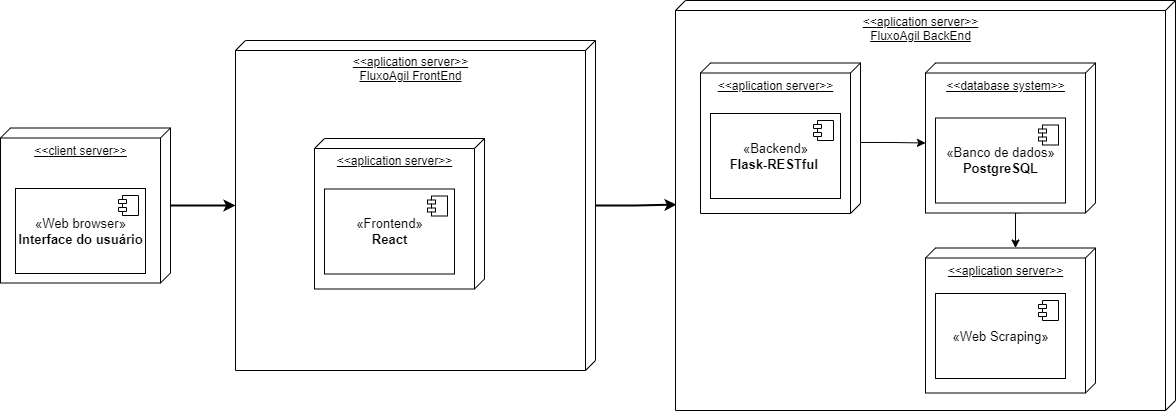
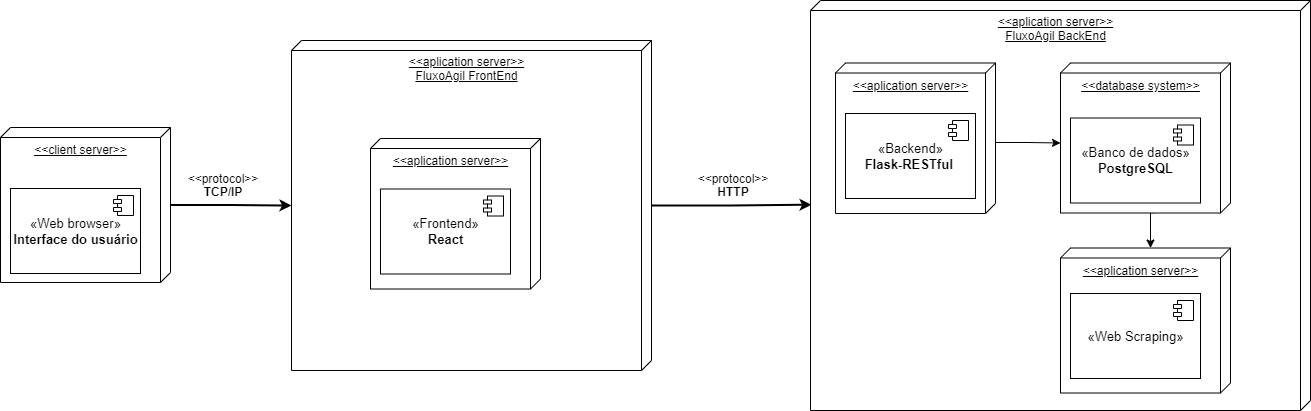
99 docs/melhorias (#132)
* docs: melhorias e modificações (#99)

* docs: adicionando ao historico de versoes (#99)

diff --git a/docs/Base/ProcessosMetodologiasAbordagens/escolhas_metodologicas.md b/docs/Base/ProcessosMetodologiasAbordagens/escolhas_metodologicas.md
@@ -1,9 +1,10 @@
 # Escolhas Metodológicas
 
 ## Histórico de versões
-| Data     | Versão | Descrição            | Autor(a)                                     | Revisor(a)                             |
-| -------- | ------ | -------------------- | -------------------------------------------- | -------------------------------------- |
-| 20/06/22 | 1.0    | Criação do documento | [Amanda Nobre](https://github.com/AmandaNbr) | [Lucas Braun](https://github.com/lbvx) |
+| Data     | Versão | Descrição            | Autor(a)                                     | Revisor(a)                                  |
+| -------- | ------ | -------------------- | -------------------------------------------- | ------------------------------------------- |
+| 20/06/22 | 1.0    | Criação do documento | [Amanda Nobre](https://github.com/AmandaNbr) | [Lucas Braun](https://github.com/lbvx)      |
+| 15/07/22 | 1.1    | Correções            | [Amanda Nobre](https://github.com/AmandaNbr) | [Yudi Yamane](https://github.com/yudi-azvd) |
 
 ## Introdução
 
@@ -56,7 +57,7 @@ Figura 2 - XP <br>
 Fonte: Jose Cuéllar
 </p>
 
-As práticas exercidas pela XP que a equipe busca utilizar são: Pareamento, onde dois desenvolvedores trabalham em uma mesma máquina, nesse formato de programação ambos estão constantemente se comunicando e trocando ideias, os Testes onde todo código escrito deve passar por testes para, se houver, o erro ser resolvido rapidamente, garantindo a qualidade de acordo com os requisitos para entrar no código principal do projeto e, por fim, a Refatoração com o objetivo de sempre deixar o código mais simples, mantendo sempre as funcionalidades já desenvolvidas.
+As práticas exercidas pela XP que a equipe busca utilizar são: Pareamento, onde dois desenvolvedores trabalham em uma mesma máquina, nesse formato de programação ambos estão constantemente se comunicando e trocando ideias, e a Refatoração com o objetivo de sempre deixar o código mais simples, mantendo sempre as funcionalidades já desenvolvidas.
 
 ### Quadro Kanban
 

diff --git a/docs/Modelagem/UMLEstaticos/diagrama_implantacao.md b/docs/Modelagem/UMLEstaticos/diagrama_implantacao.md
@@ -1,10 +1,11 @@
 # Diagrama de Implantação
 
 ## Histórico de versões
-| Data     | Versão | Descrição            | Autor(a)                                                                                                   | Revisor(a)                             |
-| -------- | ------ | -------------------- | ---------------------------------------------------------------------------------------------------------- | -------------------------------------- |
-| 05/07/22 | 1.0    | Criação do documento | [Amanda Nobre](https://github.com/AmandaNbr), [Ana Carolina](https://github.com/AnaCarolinaRodriguesLeite) | [Lucas Braun](https://github.com/lbvx) |
-| 13/07/22 | 1.1    | Correção no diagrama | [Amanda Nobre](https://github.com/AmandaNbr)                                                               | [Lucas Braun](https://github.com/lbvx) |
+| Data     | Versão | Descrição                         | Autor(a)                                                                                                   | Revisor(a)                                  |
+| -------- | ------ | --------------------------------- | ---------------------------------------------------------------------------------------------------------- | ------------------------------------------- |
+| 05/07/22 | 1.0    | Criação do documento              | [Amanda Nobre](https://github.com/AmandaNbr), [Ana Carolina](https://github.com/AnaCarolinaRodriguesLeite) | [Lucas Braun](https://github.com/lbvx)      |
+| 13/07/22 | 1.1    | Correção no diagrama              | [Amanda Nobre](https://github.com/AmandaNbr)                                                               | [Lucas Braun](https://github.com/lbvx)      |
+| 15/07/22 | 1.2    | Correção no diagrama (protocolos) | [Amanda Nobre](https://github.com/AmandaNbr)                                                               | [Yudi Yamane](https://github.com/yudi-azvd) |
 
 ## Introdução
 
